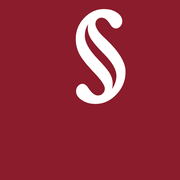
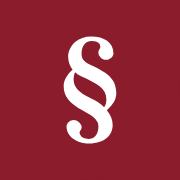
🐛 Site: centre the § in the seal with a path instead of text
The seal drew the § as SVG <text> with dy=0.36em. Every font puts the
glyph at a different height, so the § sat off-centre: in the raster
icons 5.5 px too high at 32 px, 33.5 px at 180 px.

The § is now a path outline (Libertinus Serif Bold, OFL), centred on its
bounding box, in favicon.svg, the header of every page and
dev/og-image.html. dev/icons.mjs renders favicon.ico (16/32/48),
favicon-32.png, apple-touch-icon.png and og.png from it with Playwright.
A test keeps the header seal identical on every page and free of <text>.

Changed region(s): [[0.3333, 0.0278, 0.7222, 0.8056]]

diff --git a/docs/de/index.html b/docs/de/index.html
@@ -94,7 +94,7 @@
 <body>
 <a class="skip" href="#content">Zum Inhalt springen</a>
 <header class="top"><div class="top-inner">
-  <a class="brand" href="./" aria-current="page"><svg viewBox="0 0 32 32" aria-hidden="true"><circle cx="16" cy="16" r="16"/><text x="16" y="16" dy="0.36em" text-anchor="middle">§</text></svg>rechtzeitig<span class="visually-hidden"> Startseite</span></a>
+  <a class="brand" href="./" aria-current="page"><svg viewBox="0 0 32 32" aria-hidden="true"><circle cx="16" cy="16" r="16"/><path d="M20.03 22.21C20.03 21.3 19.64 20.4 19 19.6C19.85 18.86 20.68 17.85 20.68 16.59C20.68 13.76 18.81 12.84 16.24 11.58C15.18 11.07 14.5 10.66 14.5 9.58C14.5 8.38 15.02 7.3 16.33 7.3C17.53 7.3 17.83 7.86 17.83 8.36C17.83 8.73 17.5 8.75 17.5 9.46C17.5 9.72 17.9 10.64 18.88 10.64C19.41 10.64 20.17 10.13 20.17 9.49C20.17 7.53 18.49 6.5 16.24 6.5C15.14 6.5 14.06 6.84 13.3 7.53C12.54 8.22 12.11 9.28 12.11 10.04C12.11 11 12.43 11.78 12.91 12.38C12.08 13.09 11.32 14.1 11.32 15.28C11.32 17.09 12.24 18.29 14.79 19.71C15.97 20.35 17.5 21.2 17.5 22.38C17.5 23.91 16.75 24.7 15.71 24.7C14.38 24.7 14.15 23.78 14.15 23.62C14.15 23.29 14.52 23.11 14.52 22.51C14.52 22.26 14.01 21.34 13.05 21.34C12.54 21.34 11.83 21.87 11.83 22.47C11.83 24.49 14.08 25.5 15.76 25.5C18.91 25.5 20.03 23.8 20.03 22.21ZM13.35 12.86C13.67 13.16 14.01 13.37 14.33 13.53C17.39 14.93 18.91 15.76 18.91 17.69C18.91 18.22 18.79 18.68 18.52 19.07C17.92 18.49 17.16 17.96 16.31 17.57C13.78 16.36 13.09 15.3 13.09 14.17C13.09 13.69 13.16 13.25 13.35 12.86Z"/></svg>rechtzeitig<span class="visually-hidden"> Startseite</span></a>
   <nav class="nav" aria-label="Hauptmenü"><ul><li><a href="../workflow.html" hreflang="en">Workflow<span class="nav-lang" aria-hidden="true">EN</span><span class="visually-hidden"> (Englisch)</span></a></li><li><a href="../checks.html" hreflang="en">Checks<span class="nav-lang" aria-hidden="true">EN</span><span class="visually-hidden"> (Englisch)</span></a></li><li><a href="https://github.com/kreativ-anders/rechtzeitig">GitHub</a></li></ul></nav>
   <nav class="langs" aria-label="Sprache"><a href="../" hreflang="en" lang="en"><span aria-hidden="true">EN</span><span class="visually-hidden">English: Home</span></a><a href="./" hreflang="de" lang="de" aria-current="page"><span aria-hidden="true">DE</span><span class="visually-hidden">Deutsch: Startseite</span></a></nav>
   <fieldset class="theme" hidden><legend>Farbschema</legend><input type="radio" name="theme" id="theme-light" value="light"><label for="theme-light" title="Hell"><svg viewBox="0 0 16 16" fill="none" stroke="currentColor" stroke-width="1.6" stroke-linecap="round" aria-hidden="true"><circle cx="8" cy="8" r="3"/><path d="M8 1v1.5M8 13.5V15M1 8h1.5M13.5 8H15M3.05 3.05l1.06 1.06M11.89 11.89l1.06 1.06M3.05 12.95l1.06-1.06M11.89 4.11l1.06-1.06"/></svg><span class="visually-hidden">Hell</span></label><input type="radio" name="theme" id="theme-dark" value="dark"><label for="theme-dark" title="Dunkel"><svg viewBox="0 0 16 16" fill="currentColor" aria-hidden="true"><path d="M13.6 10.1A6 6 0 0 1 5.9 2.4a6 6 0 1 0 7.7 7.7z"/></svg><span class="visually-hidden">Dunkel</span></label></fieldset>

diff --git a/docs/de/datenschutz.html b/docs/de/datenschutz.html
@@ -40,7 +40,7 @@
 <body>
 <a class="skip" href="#content">Zum Inhalt springen</a>
 <header class="top"><div class="top-inner">
-  <a class="brand" href="./"><svg viewBox="0 0 32 32" aria-hidden="true"><circle cx="16" cy="16" r="16"/><text x="16" y="16" dy="0.36em" text-anchor="middle">§</text></svg>rechtzeitig<span class="visually-hidden"> Startseite</span></a>
+  <a class="brand" href="./"><svg viewBox="0 0 32 32" aria-hidden="true"><circle cx="16" cy="16" r="16"/><path d="M20.03 22.21C20.03 21.3 19.64 20.4 19 19.6C19.85 18.86 20.68 17.85 20.68 16.59C20.68 13.76 18.81 12.84 16.24 11.58C15.18 11.07 14.5 10.66 14.5 9.58C14.5 8.38 15.02 7.3 16.33 7.3C17.53 7.3 17.83 7.86 17.83 8.36C17.83 8.73 17.5 8.75 17.5 9.46C17.5 9.72 17.9 10.64 18.88 10.64C19.41 10.64 20.17 10.13 20.17 9.49C20.17 7.53 18.49 6.5 16.24 6.5C15.14 6.5 14.06 6.84 13.3 7.53C12.54 8.22 12.11 9.28 12.11 10.04C12.11 11 12.43 11.78 12.91 12.38C12.08 13.09 11.32 14.1 11.32 15.28C11.32 17.09 12.24 18.29 14.79 19.71C15.97 20.35 17.5 21.2 17.5 22.38C17.5 23.91 16.75 24.7 15.71 24.7C14.38 24.7 14.15 23.78 14.15 23.62C14.15 23.29 14.52 23.11 14.52 22.51C14.52 22.26 14.01 21.34 13.05 21.34C12.54 21.34 11.83 21.87 11.83 22.47C11.83 24.49 14.08 25.5 15.76 25.5C18.91 25.5 20.03 23.8 20.03 22.21ZM13.35 12.86C13.67 13.16 14.01 13.37 14.33 13.53C17.39 14.93 18.91 15.76 18.91 17.69C18.91 18.22 18.79 18.68 18.52 19.07C17.92 18.49 17.16 17.96 16.31 17.57C13.78 16.36 13.09 15.3 13.09 14.17C13.09 13.69 13.16 13.25 13.35 12.86Z"/></svg>rechtzeitig<span class="visually-hidden"> Startseite</span></a>
   <nav class="nav" aria-label="Hauptmenü"><ul><li><a href="../workflow.html" hreflang="en">Workflow<span class="nav-lang" aria-hidden="true">EN</span><span class="visually-hidden"> (Englisch)</span></a></li><li><a href="../checks.html" hreflang="en">Checks<span class="nav-lang" aria-hidden="true">EN</span><span class="visually-hidden"> (Englisch)</span></a></li><li><a href="https://github.com/kreativ-anders/rechtzeitig">GitHub</a></li></ul></nav>
   <nav class="langs" aria-label="Sprache"><a href="../privacy.html" hreflang="en" lang="en"><span aria-hidden="true">EN</span><span class="visually-hidden">English: Privacy</span></a><a href="datenschutz.html" hreflang="de" lang="de" aria-current="page"><span aria-hidden="true">DE</span><span class="visually-hidden">Deutsch: Datenschutz</span></a></nav>
   <fieldset class="theme" hidden><legend>Farbschema</legend><input type="radio" name="theme" id="theme-light" value="light"><label for="theme-light" title="Hell"><svg viewBox="0 0 16 16" fill="none" stroke="currentColor" stroke-width="1.6" stroke-linecap="round" aria-hidden="true"><circle cx="8" cy="8" r="3"/><path d="M8 1v1.5M8 13.5V15M1 8h1.5M13.5 8H15M3.05 3.05l1.06 1.06M11.89 11.89l1.06 1.06M3.05 12.95l1.06-1.06M11.89 4.11l1.06-1.06"/></svg><span class="visually-hidden">Hell</span></label><input type="radio" name="theme" id="theme-dark" value="dark"><label for="theme-dark" title="Dunkel"><svg viewBox="0 0 16 16" fill="currentColor" aria-hidden="true"><path d="M13.6 10.1A6 6 0 0 1 5.9 2.4a6 6 0 1 0 7.7 7.7z"/></svg><span class="visually-hidden">Dunkel</span></label></fieldset>

diff --git a/docs/de/kuendigungsbutton.html b/docs/de/kuendigungsbutton.html
@@ -36,7 +36,7 @@
 <body>
 <a class="skip" href="#content">Zum Inhalt springen</a>
 <header class="top"><div class="top-inner">
-  <a class="brand" href="./"><svg viewBox="0 0 32 32" aria-hidden="true"><circle cx="16" cy="16" r="16"/><text x="16" y="16" dy="0.36em" text-anchor="middle">§</text></svg>rechtzeitig<span class="visually-hidden"> Startseite</span></a>
+  <a class="brand" href="./"><svg viewBox="0 0 32 32" aria-hidden="true"><circle cx="16" cy="16" r="16"/><path d="M20.03 22.21C20.03 21.3 19.64 20.4 19 19.6C19.85 18.86 20.68 17.85 20.68 16.59C20.68 13.76 18.81 12.84 16.24 11.58C15.18 11.07 14.5 10.66 14.5 9.58C14.5 8.38 15.02 7.3 16.33 7.3C17.53 7.3 17.83 7.86 17.83 8.36C17.83 8.73 17.5 8.75 17.5 9.46C17.5 9.72 17.9 10.64 18.88 10.64C19.41 10.64 20.17 10.13 20.17 9.49C20.17 7.53 18.49 6.5 16.24 6.5C15.14 6.5 14.06 6.84 13.3 7.53C12.54 8.22 12.11 9.28 12.11 10.04C12.11 11 12.43 11.78 12.91 12.38C12.08 13.09 11.32 14.1 11.32 15.28C11.32 17.09 12.24 18.29 14.79 19.71C15.97 20.35 17.5 21.2 17.5 22.38C17.5 23.91 16.75 24.7 15.71 24.7C14.38 24.7 14.15 23.78 14.15 23.62C14.15 23.29 14.52 23.11 14.52 22.51C14.52 22.26 14.01 21.34 13.05 21.34C12.54 21.34 11.83 21.87 11.83 22.47C11.83 24.49 14.08 25.5 15.76 25.5C18.91 25.5 20.03 23.8 20.03 22.21ZM13.35 12.86C13.67 13.16 14.01 13.37 14.33 13.53C17.39 14.93 18.91 15.76 18.91 17.69C18.91 18.22 18.79 18.68 18.52 19.07C17.92 18.49 17.16 17.96 16.31 17.57C13.78 16.36 13.09 15.3 13.09 14.17C13.09 13.69 13.16 13.25 13.35 12.86Z"/></svg>rechtzeitig<span class="visually-hidden"> Startseite</span></a>
   <nav class="nav" aria-label="Hauptmenü"><ul><li><a href="../workflow.html" hreflang="en">Workflow<span class="nav-lang" aria-hidden="true">EN</span><span class="visually-hidden"> (Englisch)</span></a></li><li><a href="../checks.html" hreflang="en">Checks<span class="nav-lang" aria-hidden="true">EN</span><span class="visually-hidden"> (Englisch)</span></a></li><li><a href="https://github.com/kreativ-anders/rechtzeitig">GitHub</a></li></ul></nav>
   <nav class="langs" aria-label="Sprache"><a href="../" hreflang="en" lang="en"><span aria-hidden="true">EN</span><span class="visually-hidden">English: Home</span></a><a href="kuendigungsbutton.html" hreflang="de" lang="de" aria-current="page"><span aria-hidden="true">DE</span><span class="visually-hidden">Deutsch: Kündigungsbutton</span></a></nav>
   <fieldset class="theme" hidden><legend>Farbschema</legend><input type="radio" name="theme" id="theme-light" value="light"><label for="theme-light" title="Hell"><svg viewBox="0 0 16 16" fill="none" stroke="currentColor" stroke-width="1.6" stroke-linecap="round" aria-hidden="true"><circle cx="8" cy="8" r="3"/><path d="M8 1v1.5M8 13.5V15M1 8h1.5M13.5 8H15M3.05 3.05l1.06 1.06M11.89 11.89l1.06 1.06M3.05 12.95l1.06-1.06M11.89 4.11l1.06-1.06"/></svg><span class="visually-hidden">Hell</span></label><input type="radio" name="theme" id="theme-dark" value="dark"><label for="theme-dark" title="Dunkel"><svg viewBox="0 0 16 16" fill="currentColor" aria-hidden="true"><path d="M13.6 10.1A6 6 0 0 1 5.9 2.4a6 6 0 1 0 7.7 7.7z"/></svg><span class="visually-hidden">Dunkel</span></label></fieldset>

diff --git a/docs/de/impressum.html b/docs/de/impressum.html
@@ -40,7 +40,7 @@
 <body>
 <a class="skip" href="#content">Zum Inhalt springen</a>
 <header class="top"><div class="top-inner">
-  <a class="brand" href="./"><svg viewBox="0 0 32 32" aria-hidden="true"><circle cx="16" cy="16" r="16"/><text x="16" y="16" dy="0.36em" text-anchor="middle">§</text></svg>rechtzeitig<span class="visually-hidden"> Startseite</span></a>
+  <a class="brand" href="./"><svg viewBox="0 0 32 32" aria-hidden="true"><circle cx="16" cy="16" r="16"/><path d="M20.03 22.21C20.03 21.3 19.64 20.4 19 19.6C19.85 18.86 20.68 17.85 20.68 16.59C20.68 13.76 18.81 12.84 16.24 11.58C15.18 11.07 14.5 10.66 14.5 9.58C14.5 8.38 15.02 7.3 16.33 7.3C17.53 7.3 17.83 7.86 17.83 8.36C17.83 8.73 17.5 8.75 17.5 9.46C17.5 9.72 17.9 10.64 18.88 10.64C19.41 10.64 20.17 10.13 20.17 9.49C20.17 7.53 18.49 6.5 16.24 6.5C15.14 6.5 14.06 6.84 13.3 7.53C12.54 8.22 12.11 9.28 12.11 10.04C12.11 11 12.43 11.78 12.91 12.38C12.08 13.09 11.32 14.1 11.32 15.28C11.32 17.09 12.24 18.29 14.79 19.71C15.97 20.35 17.5 21.2 17.5 22.38C17.5 23.91 16.75 24.7 15.71 24.7C14.38 24.7 14.15 23.78 14.15 23.62C14.15 23.29 14.52 23.11 14.52 22.51C14.52 22.26 14.01 21.34 13.05 21.34C12.54 21.34 11.83 21.87 11.83 22.47C11.83 24.49 14.08 25.5 15.76 25.5C18.91 25.5 20.03 23.8 20.03 22.21ZM13.35 12.86C13.67 13.16 14.01 13.37 14.33 13.53C17.39 14.93 18.91 15.76 18.91 17.69C18.91 18.22 18.79 18.68 18.52 19.07C17.92 18.49 17.16 17.96 16.31 17.57C13.78 16.36 13.09 15.3 13.09 14.17C13.09 13.69 13.16 13.25 13.35 12.86Z"/></svg>rechtzeitig<span class="visually-hidden"> Startseite</span></a>
   <nav class="nav" aria-label="Hauptmenü"><ul><li><a href="../workflow.html" hreflang="en">Workflow<span class="nav-lang" aria-hidden="true">EN</span><span class="visually-hidden"> (Englisch)</span></a></li><li><a href="../checks.html" hreflang="en">Checks<span class="nav-lang" aria-hidden="true">EN</span><span class="visually-hidden"> (Englisch)</span></a></li><li><a href="https://github.com/kreativ-anders/rechtzeitig">GitHub</a></li></ul></nav>
   <nav class="langs" aria-label="Sprache"><a href="../imprint.html" hreflang="en" lang="en"><span aria-hidden="true">EN</span><span class="visually-hidden">English: Imprint</span></a><a href="impressum.html" hreflang="de" lang="de" aria-current="page"><span aria-hidden="true">DE</span><span class="visually-hidden">Deutsch: Impressum</span></a></nav>
   <fieldset class="theme" hidden><legend>Farbschema</legend><input type="radio" name="theme" id="theme-light" value="light"><label for="theme-light" title="Hell"><svg viewBox="0 0 16 16" fill="none" stroke="currentColor" stroke-width="1.6" stroke-linecap="round" aria-hidden="true"><circle cx="8" cy="8" r="3"/><path d="M8 1v1.5M8 13.5V15M1 8h1.5M13.5 8H15M3.05 3.05l1.06 1.06M11.89 11.89l1.06 1.06M3.05 12.95l1.06-1.06M11.89 4.11l1.06-1.06"/></svg><span class="visually-hidden">Hell</span></label><input type="radio" name="theme" id="theme-dark" value="dark"><label for="theme-dark" title="Dunkel"><svg viewBox="0 0 16 16" fill="currentColor" aria-hidden="true"><path d="M13.6 10.1A6 6 0 0 1 5.9 2.4a6 6 0 1 0 7.7 7.7z"/></svg><span class="visually-hidden">Dunkel</span></label></fieldset>

diff --git a/docs/index.html b/docs/index.html
@@ -104,7 +104,7 @@
 <body>
 <a class="skip" href="#content">Skip to content</a>
 <header class="top"><div class="top-inner">
-  <a class="brand" href="./" aria-current="page"><svg viewBox="0 0 32 32" aria-hidden="true"><circle cx="16" cy="16" r="16"/><text x="16" y="16" dy="0.36em" text-anchor="middle">§</text></svg>rechtzeitig<span class="visually-hidden"> home</span></a>
+  <a class="brand" href="./" aria-current="page"><svg viewBox="0 0 32 32" aria-hidden="true"><circle cx="16" cy="16" r="16"/><path d="M20.03 22.21C20.03 21.3 19.64 20.4 19 19.6C19.85 18.86 20.68 17.85 20.68 16.59C20.68 13.76 18.81 12.84 16.24 11.58C15.18 11.07 14.5 10.66 14.5 9.58C14.5 8.38 15.02 7.3 16.33 7.3C17.53 7.3 17.83 7.86 17.83 8.36C17.83 8.73 17.5 8.75 17.5 9.46C17.5 9.72 17.9 10.64 18.88 10.64C19.41 10.64 20.17 10.13 20.17 9.49C20.17 7.53 18.49 6.5 16.24 6.5C15.14 6.5 14.06 6.84 13.3 7.53C12.54 8.22 12.11 9.28 12.11 10.04C12.11 11 12.43 11.78 12.91 12.38C12.08 13.09 11.32 14.1 11.32 15.28C11.32 17.09 12.24 18.29 14.79 19.71C15.97 20.35 17.5 21.2 17.5 22.38C17.5 23.91 16.75 24.7 15.71 24.7C14.38 24.7 14.15 23.78 14.15 23.62C14.15 23.29 14.52 23.11 14.52 22.51C14.52 22.26 14.01 21.34 13.05 21.34C12.54 21.34 11.83 21.87 11.83 22.47C11.83 24.49 14.08 25.5 15.76 25.5C18.91 25.5 20.03 23.8 20.03 22.21ZM13.35 12.86C13.67 13.16 14.01 13.37 14.33 13.53C17.39 14.93 18.91 15.76 18.91 17.69C18.91 18.22 18.79 18.68 18.52 19.07C17.92 18.49 17.16 17.96 16.31 17.57C13.78 16.36 13.09 15.3 13.09 14.17C13.09 13.69 13.16 13.25 13.35 12.86Z"/></svg>rechtzeitig<span class="visually-hidden"> home</span></a>
   <nav class="nav" aria-label="Main"><ul><li><a href="workflow.html">Workflow</a></li><li><a href="checks.html">Checks</a></li><li><a href="https://github.com/kreativ-anders/rechtzeitig">GitHub</a></li></ul></nav>
   <nav class="langs" aria-label="Language"><a href="./" hreflang="en" lang="en" aria-current="page"><span aria-hidden="true">EN</span><span class="visually-hidden">English: Home</span></a><a href="de/" hreflang="de" lang="de"><span aria-hidden="true">DE</span><span class="visually-hidden">Deutsch: Startseite</span></a></nav>
   <fieldset class="theme" hidden><legend>Colour theme</legend><input type="radio" name="theme" id="theme-light" value="light"><label for="theme-light" title="Light"><svg viewBox="0 0 16 16" fill="none" stroke="currentColor" stroke-width="1.6" stroke-linecap="round" aria-hidden="true"><circle cx="8" cy="8" r="3"/><path d="M8 1v1.5M8 13.5V15M1 8h1.5M13.5 8H15M3.05 3.05l1.06 1.06M11.89 11.89l1.06 1.06M3.05 12.95l1.06-1.06M11.89 4.11l1.06-1.06"/></svg><span class="visually-hidden">Light</span></label><input type="radio" name="theme" id="theme-dark" value="dark"><label for="theme-dark" title="Dark"><svg viewBox="0 0 16 16" fill="currentColor" aria-hidden="true"><path d="M13.6 10.1A6 6 0 0 1 5.9 2.4a6 6 0 1 0 7.7 7.7z"/></svg><span class="visually-hidden">Dark</span></label></fieldset>

diff --git a/docs/workflow.html b/docs/workflow.html
@@ -36,7 +36,7 @@
 <body>
 <a class="skip" href="#content">Skip to content</a>
 <header class="top"><div class="top-inner">
-  <a class="brand" href="./"><svg viewBox="0 0 32 32" aria-hidden="true"><circle cx="16" cy="16" r="16"/><text x="16" y="16" dy="0.36em" text-anchor="middle">§</text></svg>rechtzeitig<span class="visually-hidden"> home</span></a>
+  <a class="brand" href="./"><svg viewBox="0 0 32 32" aria-hidden="true"><circle cx="16" cy="16" r="16"/><path d="M20.03 22.21C20.03 21.3 19.64 20.4 19 19.6C19.85 18.86 20.68 17.85 20.68 16.59C20.68 13.76 18.81 12.84 16.24 11.58C15.18 11.07 14.5 10.66 14.5 9.58C14.5 8.38 15.02 7.3 16.33 7.3C17.53 7.3 17.83 7.86 17.83 8.36C17.83 8.73 17.5 8.75 17.5 9.46C17.5 9.72 17.9 10.64 18.88 10.64C19.41 10.64 20.17 10.13 20.17 9.49C20.17 7.53 18.49 6.5 16.24 6.5C15.14 6.5 14.06 6.84 13.3 7.53C12.54 8.22 12.11 9.28 12.11 10.04C12.11 11 12.43 11.78 12.91 12.38C12.08 13.09 11.32 14.1 11.32 15.28C11.32 17.09 12.24 18.29 14.79 19.71C15.97 20.35 17.5 21.2 17.5 22.38C17.5 23.91 16.75 24.7 15.71 24.7C14.38 24.7 14.15 23.78 14.15 23.62C14.15 23.29 14.52 23.11 14.52 22.51C14.52 22.26 14.01 21.34 13.05 21.34C12.54 21.34 11.83 21.87 11.83 22.47C11.83 24.49 14.08 25.5 15.76 25.5C18.91 25.5 20.03 23.8 20.03 22.21ZM13.35 12.86C13.67 13.16 14.01 13.37 14.33 13.53C17.39 14.93 18.91 15.76 18.91 17.69C18.91 18.22 18.79 18.68 18.52 19.07C17.92 18.49 17.16 17.96 16.31 17.57C13.78 16.36 13.09 15.3 13.09 14.17C13.09 13.69 13.16 13.25 13.35 12.86Z"/></svg>rechtzeitig<span class="visually-hidden"> home</span></a>
   <nav class="nav" aria-label="Main"><ul><li><a href="workflow.html" aria-current="page">Workflow</a></li><li><a href="checks.html">Checks</a></li><li><a href="https://github.com/kreativ-anders/rechtzeitig">GitHub</a></li></ul></nav>
   <nav class="langs" aria-label="Language"><a href="workflow.html" hreflang="en" lang="en" aria-current="page"><span aria-hidden="true">EN</span><span class="visually-hidden">English: Workflow</span></a><a href="de/" hreflang="de" lang="de"><span aria-hidden="true">DE</span><span class="visually-hidden">Deutsch: Startseite</span></a></nav>
   <fieldset class="theme" hidden><legend>Colour theme</legend><input type="radio" name="theme" id="theme-light" value="light"><label for="theme-light" title="Light"><svg viewBox="0 0 16 16" fill="none" stroke="currentColor" stroke-width="1.6" stroke-linecap="round" aria-hidden="true"><circle cx="8" cy="8" r="3"/><path d="M8 1v1.5M8 13.5V15M1 8h1.5M13.5 8H15M3.05 3.05l1.06 1.06M11.89 11.89l1.06 1.06M3.05 12.95l1.06-1.06M11.89 4.11l1.06-1.06"/></svg><span class="visually-hidden">Light</span></label><input type="radio" name="theme" id="theme-dark" value="dark"><label for="theme-dark" title="Dark"><svg viewBox="0 0 16 16" fill="currentColor" aria-hidden="true"><path d="M13.6 10.1A6 6 0 0 1 5.9 2.4a6 6 0 1 0 7.7 7.7z"/></svg><span class="visually-hidden">Dark</span></label></fieldset>

diff --git a/docs/checks.html b/docs/checks.html
@@ -36,7 +36,7 @@
 <body>
 <a class="skip" href="#content">Skip to content</a>
 <header class="top"><div class="top-inner">
-  <a class="brand" href="./"><svg viewBox="0 0 32 32" aria-hidden="true"><circle cx="16" cy="16" r="16"/><text x="16" y="16" dy="0.36em" text-anchor="middle">§</text></svg>rechtzeitig<span class="visually-hidden"> home</span></a>
+  <a class="brand" href="./"><svg viewBox="0 0 32 32" aria-hidden="true"><circle cx="16" cy="16" r="16"/><path d="M20.03 22.21C20.03 21.3 19.64 20.4 19 19.6C19.85 18.86 20.68 17.85 20.68 16.59C20.68 13.76 18.81 12.84 16.24 11.58C15.18 11.07 14.5 10.66 14.5 9.58C14.5 8.38 15.02 7.3 16.33 7.3C17.53 7.3 17.83 7.86 17.83 8.36C17.83 8.73 17.5 8.75 17.5 9.46C17.5 9.72 17.9 10.64 18.88 10.64C19.41 10.64 20.17 10.13 20.17 9.49C20.17 7.53 18.49 6.5 16.24 6.5C15.14 6.5 14.06 6.84 13.3 7.53C12.54 8.22 12.11 9.28 12.11 10.04C12.11 11 12.43 11.78 12.91 12.38C12.08 13.09 11.32 14.1 11.32 15.28C11.32 17.09 12.24 18.29 14.79 19.71C15.97 20.35 17.5 21.2 17.5 22.38C17.5 23.91 16.75 24.7 15.71 24.7C14.38 24.7 14.15 23.78 14.15 23.62C14.15 23.29 14.52 23.11 14.52 22.51C14.52 22.26 14.01 21.34 13.05 21.34C12.54 21.34 11.83 21.87 11.83 22.47C11.83 24.49 14.08 25.5 15.76 25.5C18.91 25.5 20.03 23.8 20.03 22.21ZM13.35 12.86C13.67 13.16 14.01 13.37 14.33 13.53C17.39 14.93 18.91 15.76 18.91 17.69C18.91 18.22 18.79 18.68 18.52 19.07C17.92 18.49 17.16 17.96 16.31 17.57C13.78 16.36 13.09 15.3 13.09 14.17C13.09 13.69 13.16 13.25 13.35 12.86Z"/></svg>rechtzeitig<span class="visually-hidden"> home</span></a>
   <nav class="nav" aria-label="Main"><ul><li><a href="workflow.html">Workflow</a></li><li><a href="checks.html" aria-current="page">Checks</a></li><li><a href="https://github.com/kreativ-anders/rechtzeitig">GitHub</a></li></ul></nav>
   <nav class="langs" aria-label="Language"><a href="checks.html" hreflang="en" lang="en" aria-current="page"><span aria-hidden="true">EN</span><span class="visually-hidden">English: Checks</span></a><a href="de/" hreflang="de" lang="de"><span aria-hidden="true">DE</span><span class="visually-hidden">Deutsch: Startseite</span></a></nav>
   <fieldset class="theme" hidden><legend>Colour theme</legend><input type="radio" name="theme" id="theme-light" value="light"><label for="theme-light" title="Light"><svg viewBox="0 0 16 16" fill="none" stroke="currentColor" stroke-width="1.6" stroke-linecap="round" aria-hidden="true"><circle cx="8" cy="8" r="3"/><path d="M8 1v1.5M8 13.5V15M1 8h1.5M13.5 8H15M3.05 3.05l1.06 1.06M11.89 11.89l1.06 1.06M3.05 12.95l1.06-1.06M11.89 4.11l1.06-1.06"/></svg><span class="visually-hidden">Light</span></label><input type="radio" name="theme" id="theme-dark" value="dark"><label for="theme-dark" title="Dark"><svg viewBox="0 0 16 16" fill="currentColor" aria-hidden="true"><path d="M13.6 10.1A6 6 0 0 1 5.9 2.4a6 6 0 1 0 7.7 7.7z"/></svg><span class="visually-hidden">Dark</span></label></fieldset>

diff --git a/docs/privacy.html b/docs/privacy.html
@@ -40,7 +40,7 @@
 <body>
 <a class="skip" href="#content">Skip to content</a>
 <header class="top"><div class="top-inner">
-  <a class="brand" href="./"><svg viewBox="0 0 32 32" aria-hidden="true"><circle cx="16" cy="16" r="16"/><text x="16" y="16" dy="0.36em" text-anchor="middle">§</text></svg>rechtzeitig<span class="visually-hidden"> home</span></a>
+  <a class="brand" href="./"><svg viewBox="0 0 32 32" aria-hidden="true"><circle cx="16" cy="16" r="16"/><path d="M20.03 22.21C20.03 21.3 19.64 20.4 19 19.6C19.85 18.86 20.68 17.85 20.68 16.59C20.68 13.76 18.81 12.84 16.24 11.58C15.18 11.07 14.5 10.66 14.5 9.58C14.5 8.38 15.02 7.3 16.33 7.3C17.53 7.3 17.83 7.86 17.83 8.36C17.83 8.73 17.5 8.75 17.5 9.46C17.5 9.72 17.9 10.64 18.88 10.64C19.41 10.64 20.17 10.13 20.17 9.49C20.17 7.53 18.49 6.5 16.24 6.5C15.14 6.5 14.06 6.84 13.3 7.53C12.54 8.22 12.11 9.28 12.11 10.04C12.11 11 12.43 11.78 12.91 12.38C12.08 13.09 11.32 14.1 11.32 15.28C11.32 17.09 12.24 18.29 14.79 19.71C15.97 20.35 17.5 21.2 17.5 22.38C17.5 23.91 16.75 24.7 15.71 24.7C14.38 24.7 14.15 23.78 14.15 23.62C14.15 23.29 14.52 23.11 14.52 22.51C14.52 22.26 14.01 21.34 13.05 21.34C12.54 21.34 11.83 21.87 11.83 22.47C11.83 24.49 14.08 25.5 15.76 25.5C18.91 25.5 20.03 23.8 20.03 22.21ZM13.35 12.86C13.67 13.16 14.01 13.37 14.33 13.53C17.39 14.93 18.91 15.76 18.91 17.69C18.91 18.22 18.79 18.68 18.52 19.07C17.92 18.49 17.16 17.96 16.31 17.57C13.78 16.36 13.09 15.3 13.09 14.17C13.09 13.69 13.16 13.25 13.35 12.86Z"/></svg>rechtzeitig<span class="visually-hidden"> home</span></a>
   <nav class="nav" aria-label="Main"><ul><li><a href="workflow.html">Workflow</a></li><li><a href="checks.html">Checks</a></li><li><a href="https://github.com/kreativ-anders/rechtzeitig">GitHub</a></li></ul></nav>
   <nav class="langs" aria-label="Language"><a href="privacy.html" hreflang="en" lang="en" aria-current="page"><span aria-hidden="true">EN</span><span class="visually-hidden">English: Privacy</span></a><a href="de/datenschutz.html" hreflang="de" lang="de"><span aria-hidden="true">DE</span><span class="visually-hidden">Deutsch: Datenschutz</span></a></nav>
   <fieldset class="theme" hidden><legend>Colour theme</legend><input type="radio" name="theme" id="theme-light" value="light"><label for="theme-light" title="Light"><svg viewBox="0 0 16 16" fill="none" stroke="currentColor" stroke-width="1.6" stroke-linecap="round" aria-hidden="true"><circle cx="8" cy="8" r="3"/><path d="M8 1v1.5M8 13.5V15M1 8h1.5M13.5 8H15M3.05 3.05l1.06 1.06M11.89 11.89l1.06 1.06M3.05 12.95l1.06-1.06M11.89 4.11l1.06-1.06"/></svg><span class="visually-hidden">Light</span></label><input type="radio" name="theme" id="theme-dark" value="dark"><label for="theme-dark" title="Dark"><svg viewBox="0 0 16 16" fill="currentColor" aria-hidden="true"><path d="M13.6 10.1A6 6 0 0 1 5.9 2.4a6 6 0 1 0 7.7 7.7z"/></svg><span class="visually-hidden">Dark</span></label></fieldset>

diff --git a/docs/imprint.html b/docs/imprint.html
@@ -40,7 +40,7 @@
 <body>
 <a class="skip" href="#content">Skip to content</a>
 <header class="top"><div class="top-inner">
-  <a class="brand" href="./"><svg viewBox="0 0 32 32" aria-hidden="true"><circle cx="16" cy="16" r="16"/><text x="16" y="16" dy="0.36em" text-anchor="middle">§</text></svg>rechtzeitig<span class="visually-hidden"> home</span></a>
+  <a class="brand" href="./"><svg viewBox="0 0 32 32" aria-hidden="true"><circle cx="16" cy="16" r="16"/><path d="M20.03 22.21C20.03 21.3 19.64 20.4 19 19.6C19.85 18.86 20.68 17.85 20.68 16.59C20.68 13.76 18.81 12.84 16.24 11.58C15.18 11.07 14.5 10.66 14.5 9.58C14.5 8.38 15.02 7.3 16.33 7.3C17.53 7.3 17.83 7.86 17.83 8.36C17.83 8.73 17.5 8.75 17.5 9.46C17.5 9.72 17.9 10.64 18.88 10.64C19.41 10.64 20.17 10.13 20.17 9.49C20.17 7.53 18.49 6.5 16.24 6.5C15.14 6.5 14.06 6.84 13.3 7.53C12.54 8.22 12.11 9.28 12.11 10.04C12.11 11 12.43 11.78 12.91 12.38C12.08 13.09 11.32 14.1 11.32 15.28C11.32 17.09 12.24 18.29 14.79 19.71C15.97 20.35 17.5 21.2 17.5 22.38C17.5 23.91 16.75 24.7 15.71 24.7C14.38 24.7 14.15 23.78 14.15 23.62C14.15 23.29 14.52 23.11 14.52 22.51C14.52 22.26 14.01 21.34 13.05 21.34C12.54 21.34 11.83 21.87 11.83 22.47C11.83 24.49 14.08 25.5 15.76 25.5C18.91 25.5 20.03 23.8 20.03 22.21ZM13.35 12.86C13.67 13.16 14.01 13.37 14.33 13.53C17.39 14.93 18.91 15.76 18.91 17.69C18.91 18.22 18.79 18.68 18.52 19.07C17.92 18.49 17.16 17.96 16.31 17.57C13.78 16.36 13.09 15.3 13.09 14.17C13.09 13.69 13.16 13.25 13.35 12.86Z"/></svg>rechtzeitig<span class="visually-hidden"> home</span></a>
   <nav class="nav" aria-label="Main"><ul><li><a href="workflow.html">Workflow</a></li><li><a href="checks.html">Checks</a></li><li><a href="https://github.com/kreativ-anders/rechtzeitig">GitHub</a></li></ul></nav>
   <nav class="langs" aria-label="Language"><a href="imprint.html" hreflang="en" lang="en" aria-current="page"><span aria-hidden="true">EN</span><span class="visually-hidden">English: Imprint</span></a><a href="de/impressum.html" hreflang="de" lang="de"><span aria-hidden="true">DE</span><span class="visually-hidden">Deutsch: Impressum</span></a></nav>
   <fieldset class="theme" hidden><legend>Colour theme</legend><input type="radio" name="theme" id="theme-light" value="light"><label for="theme-light" title="Light"><svg viewBox="0 0 16 16" fill="none" stroke="currentColor" stroke-width="1.6" stroke-linecap="round" aria-hidden="true"><circle cx="8" cy="8" r="3"/><path d="M8 1v1.5M8 13.5V15M1 8h1.5M13.5 8H15M3.05 3.05l1.06 1.06M11.89 11.89l1.06 1.06M3.05 12.95l1.06-1.06M11.89 4.11l1.06-1.06"/></svg><span class="visually-hidden">Light</span></label><input type="radio" name="theme" id="theme-dark" value="dark"><label for="theme-dark" title="Dark"><svg viewBox="0 0 16 16" fill="currentColor" aria-hidden="true"><path d="M13.6 10.1A6 6 0 0 1 5.9 2.4a6 6 0 1 0 7.7 7.7z"/></svg><span class="visually-hidden">Dark</span></label></fieldset>

diff --git a/docs/security.html b/docs/security.html
@@ -36,7 +36,7 @@
 <body>
 <a class="skip" href="#content">Skip to content</a>
 <header class="top"><div class="top-inner">
-  <a class="brand" href="./"><svg viewBox="0 0 32 32" aria-hidden="true"><circle cx="16" cy="16" r="16"/><text x="16" y="16" dy="0.36em" text-anchor="middle">§</text></svg>rechtzeitig<span class="visually-hidden"> home</span></a>
+  <a class="brand" href="./"><svg viewBox="0 0 32 32" aria-hidden="true"><circle cx="16" cy="16" r="16"/><path d="M20.03 22.21C20.03 21.3 19.64 20.4 19 19.6C19.85 18.86 20.68 17.85 20.68 16.59C20.68 13.76 18.81 12.84 16.24 11.58C15.18 11.07 14.5 10.66 14.5 9.58C14.5 8.38 15.02 7.3 16.33 7.3C17.53 7.3 17.83 7.86 17.83 8.36C17.83 8.73 17.5 8.75 17.5 9.46C17.5 9.72 17.9 10.64 18.88 10.64C19.41 10.64 20.17 10.13 20.17 9.49C20.17 7.53 18.49 6.5 16.24 6.5C15.14 6.5 14.06 6.84 13.3 7.53C12.54 8.22 12.11 9.28 12.11 10.04C12.11 11 12.43 11.78 12.91 12.38C12.08 13.09 11.32 14.1 11.32 15.28C11.32 17.09 12.24 18.29 14.79 19.71C15.97 20.35 17.5 21.2 17.5 22.38C17.5 23.91 16.75 24.7 15.71 24.7C14.38 24.7 14.15 23.78 14.15 23.62C14.15 23.29 14.52 23.11 14.52 22.51C14.52 22.26 14.01 21.34 13.05 21.34C12.54 21.34 11.83 21.87 11.83 22.47C11.83 24.49 14.08 25.5 15.76 25.5C18.91 25.5 20.03 23.8 20.03 22.21ZM13.35 12.86C13.67 13.16 14.01 13.37 14.33 13.53C17.39 14.93 18.91 15.76 18.91 17.69C18.91 18.22 18.79 18.68 18.52 19.07C17.92 18.49 17.16 17.96 16.31 17.57C13.78 16.36 13.09 15.3 13.09 14.17C13.09 13.69 13.16 13.25 13.35 12.86Z"/></svg>rechtzeitig<span class="visually-hidden"> home</span></a>
   <nav class="nav" aria-label="Main"><ul><li><a href="workflow.html">Workflow</a></li><li><a href="checks.html">Checks</a></li><li><a href="https://github.com/kreativ-anders/rechtzeitig">GitHub</a></li></ul></nav>
   <nav class="langs" aria-label="Language"><a href="security.html" hreflang="en" lang="en" aria-current="page"><span aria-hidden="true">EN</span><span class="visually-hidden">English: Security</span></a><a href="de/" hreflang="de" lang="de"><span aria-hidden="true">DE</span><span class="visually-hidden">Deutsch: Startseite</span></a></nav>
   <fieldset class="theme" hidden><legend>Colour theme</legend><input type="radio" name="theme" id="theme-light" value="light"><label for="theme-light" title="Light"><svg viewBox="0 0 16 16" fill="none" stroke="currentColor" stroke-width="1.6" stroke-linecap="round" aria-hidden="true"><circle cx="8" cy="8" r="3"/><path d="M8 1v1.5M8 13.5V15M1 8h1.5M13.5 8H15M3.05 3.05l1.06 1.06M11.89 11.89l1.06 1.06M3.05 12.95l1.06-1.06M11.89 4.11l1.06-1.06"/></svg><span class="visually-hidden">Light</span></label><input type="radio" name="theme" id="theme-dark" value="dark"><label for="theme-dark" title="Dark"><svg viewBox="0 0 16 16" fill="currentColor" aria-hidden="true"><path d="M13.6 10.1A6 6 0 0 1 5.9 2.4a6 6 0 1 0 7.7 7.7z"/></svg><span class="visually-hidden">Dark</span></label></fieldset>

diff --git a/docs/404.html b/docs/404.html
@@ -24,7 +24,7 @@
 <body>
 <a class="skip" href="#content">Skip to content</a>
 <header class="top"><div class="top-inner">
-  <a class="brand" href="./"><svg viewBox="0 0 32 32" aria-hidden="true"><circle cx="16" cy="16" r="16"/><text x="16" y="16" dy="0.36em" text-anchor="middle">§</text></svg>rechtzeitig<span class="visually-hidden"> home</span></a>
+  <a class="brand" href="./"><svg viewBox="0 0 32 32" aria-hidden="true"><circle cx="16" cy="16" r="16"/><path d="M20.03 22.21C20.03 21.3 19.64 20.4 19 19.6C19.85 18.86 20.68 17.85 20.68 16.59C20.68 13.76 18.81 12.84 16.24 11.58C15.18 11.07 14.5 10.66 14.5 9.58C14.5 8.38 15.02 7.3 16.33 7.3C17.53 7.3 17.83 7.86 17.83 8.36C17.83 8.73 17.5 8.75 17.5 9.46C17.5 9.72 17.9 10.64 18.88 10.64C19.41 10.64 20.17 10.13 20.17 9.49C20.17 7.53 18.49 6.5 16.24 6.5C15.14 6.5 14.06 6.84 13.3 7.53C12.54 8.22 12.11 9.28 12.11 10.04C12.11 11 12.43 11.78 12.91 12.38C12.08 13.09 11.32 14.1 11.32 15.28C11.32 17.09 12.24 18.29 14.79 19.71C15.97 20.35 17.5 21.2 17.5 22.38C17.5 23.91 16.75 24.7 15.71 24.7C14.38 24.7 14.15 23.78 14.15 23.62C14.15 23.29 14.52 23.11 14.52 22.51C14.52 22.26 14.01 21.34 13.05 21.34C12.54 21.34 11.83 21.87 11.83 22.47C11.83 24.49 14.08 25.5 15.76 25.5C18.91 25.5 20.03 23.8 20.03 22.21ZM13.35 12.86C13.67 13.16 14.01 13.37 14.33 13.53C17.39 14.93 18.91 15.76 18.91 17.69C18.91 18.22 18.79 18.68 18.52 19.07C17.92 18.49 17.16 17.96 16.31 17.57C13.78 16.36 13.09 15.3 13.09 14.17C13.09 13.69 13.16 13.25 13.35 12.86Z"/></svg>rechtzeitig<span class="visually-hidden"> home</span></a>
   <nav class="nav" aria-label="Main"><ul><li><a href="workflow.html">Workflow</a></li><li><a href="checks.html">Checks</a></li><li><a href="https://github.com/kreativ-anders/rechtzeitig">GitHub</a></li></ul></nav>
   <nav class="langs" aria-label="Language"><a href="./" hreflang="en" lang="en" aria-current="page"><span aria-hidden="true">EN</span><span class="visually-hidden">English: Home</span></a><a href="de/" hreflang="de" lang="de"><span aria-hidden="true">DE</span><span class="visually-hidden">Deutsch: Startseite</span></a></nav>
   <fieldset class="theme" hidden><legend>Colour theme</legend><input type="radio" name="theme" id="theme-light" value="light"><label for="theme-light" title="Light"><svg viewBox="0 0 16 16" fill="none" stroke="currentColor" stroke-width="1.6" stroke-linecap="round" aria-hidden="true"><circle cx="8" cy="8" r="3"/><path d="M8 1v1.5M8 13.5V15M1 8h1.5M13.5 8H15M3.05 3.05l1.06 1.06M11.89 11.89l1.06 1.06M3.05 12.95l1.06-1.06M11.89 4.11l1.06-1.06"/></svg><span class="visually-hidden">Light</span></label><input type="radio" name="theme" id="theme-dark" value="dark"><label for="theme-dark" title="Dark"><svg viewBox="0 0 16 16" fill="currentColor" aria-hidden="true"><path d="M13.6 10.1A6 6 0 0 1 5.9 2.4a6 6 0 1 0 7.7 7.7z"/></svg><span class="visually-hidden">Dark</span></label></fieldset>

diff --git a/dev/og-image.html b/dev/og-image.html
@@ -1,7 +1,6 @@
 <!doctype html>
 <!-- Source of docs/og.png (1200×630), the social preview of the docs site.
-     Render after a change:
-     node -e 'import("playwright").then(async({chromium})=>{const b=await chromium.launch();const p=await b.newPage({viewport:{width:1200,height:630}});await p.goto("file://"+process.cwd()+"/dev/og-image.html");await p.screenshot({path:"docs/og.png"});await b.close()})' -->
+     Render after a change: node dev/icons.mjs (also renders the favicons from docs/favicon.svg). -->
 <html lang="en">
 <head>
 <meta charset="utf-8">
@@ -48,7 +47,7 @@
 <div class="wrap">
   <div>
     <div class="brand">
-      <svg viewBox="0 0 32 32" aria-hidden="true"><circle cx="16" cy="16" r="16" fill="#8a1c2b"/><text x="16" y="16" dy="0.36em" text-anchor="middle" fill="#fff" font-family="Iowan Old Style, Palatino, Georgia, serif" font-size="20" font-weight="700">§</text></svg>
+      <svg viewBox="0 0 32 32" aria-hidden="true"><circle cx="16" cy="16" r="16" fill="#8a1c2b"/><path fill="#fff" d="M20.03 22.21C20.03 21.3 19.64 20.4 19 19.6C19.85 18.86 20.68 17.85 20.68 16.59C20.68 13.76 18.81 12.84 16.24 11.58C15.18 11.07 14.5 10.66 14.5 9.58C14.5 8.38 15.02 7.3 16.33 7.3C17.53 7.3 17.83 7.86 17.83 8.36C17.83 8.73 17.5 8.75 17.5 9.46C17.5 9.72 17.9 10.64 18.88 10.64C19.41 10.64 20.17 10.13 20.17 9.49C20.17 7.53 18.49 6.5 16.24 6.5C15.14 6.5 14.06 6.84 13.3 7.53C12.54 8.22 12.11 9.28 12.11 10.04C12.11 11 12.43 11.78 12.91 12.38C12.08 13.09 11.32 14.1 11.32 15.28C11.32 17.09 12.24 18.29 14.79 19.71C15.97 20.35 17.5 21.2 17.5 22.38C17.5 23.91 16.75 24.7 15.71 24.7C14.38 24.7 14.15 23.78 14.15 23.62C14.15 23.29 14.52 23.11 14.52 22.51C14.52 22.26 14.01 21.34 13.05 21.34C12.54 21.34 11.83 21.87 11.83 22.47C11.83 24.49 14.08 25.5 15.76 25.5C18.91 25.5 20.03 23.8 20.03 22.21ZM13.35 12.86C13.67 13.16 14.01 13.37 14.33 13.53C17.39 14.93 18.91 15.76 18.91 17.69C18.91 18.22 18.79 18.68 18.52 19.07C17.92 18.49 17.16 17.96 16.31 17.57C13.78 16.36 13.09 15.3 13.09 14.17C13.09 13.69 13.16 13.25 13.35 12.86Z"/></svg>
       <h1>rechtzeitig</h1>
     </div>
     <p class="lead">Checks your <b>repository</b>, and optionally your website, for German and EU legal basics and security.</p>
